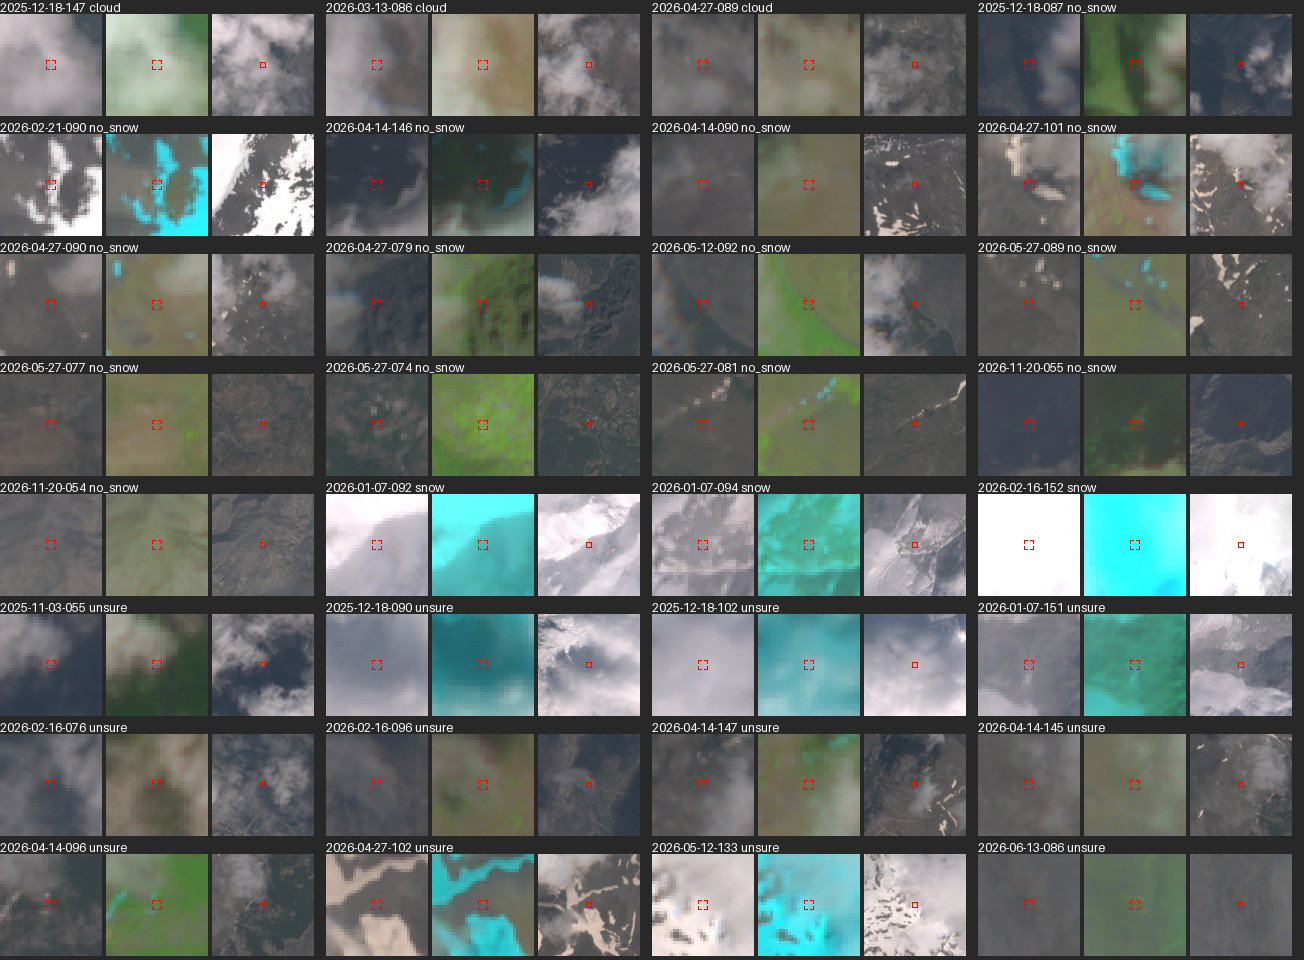
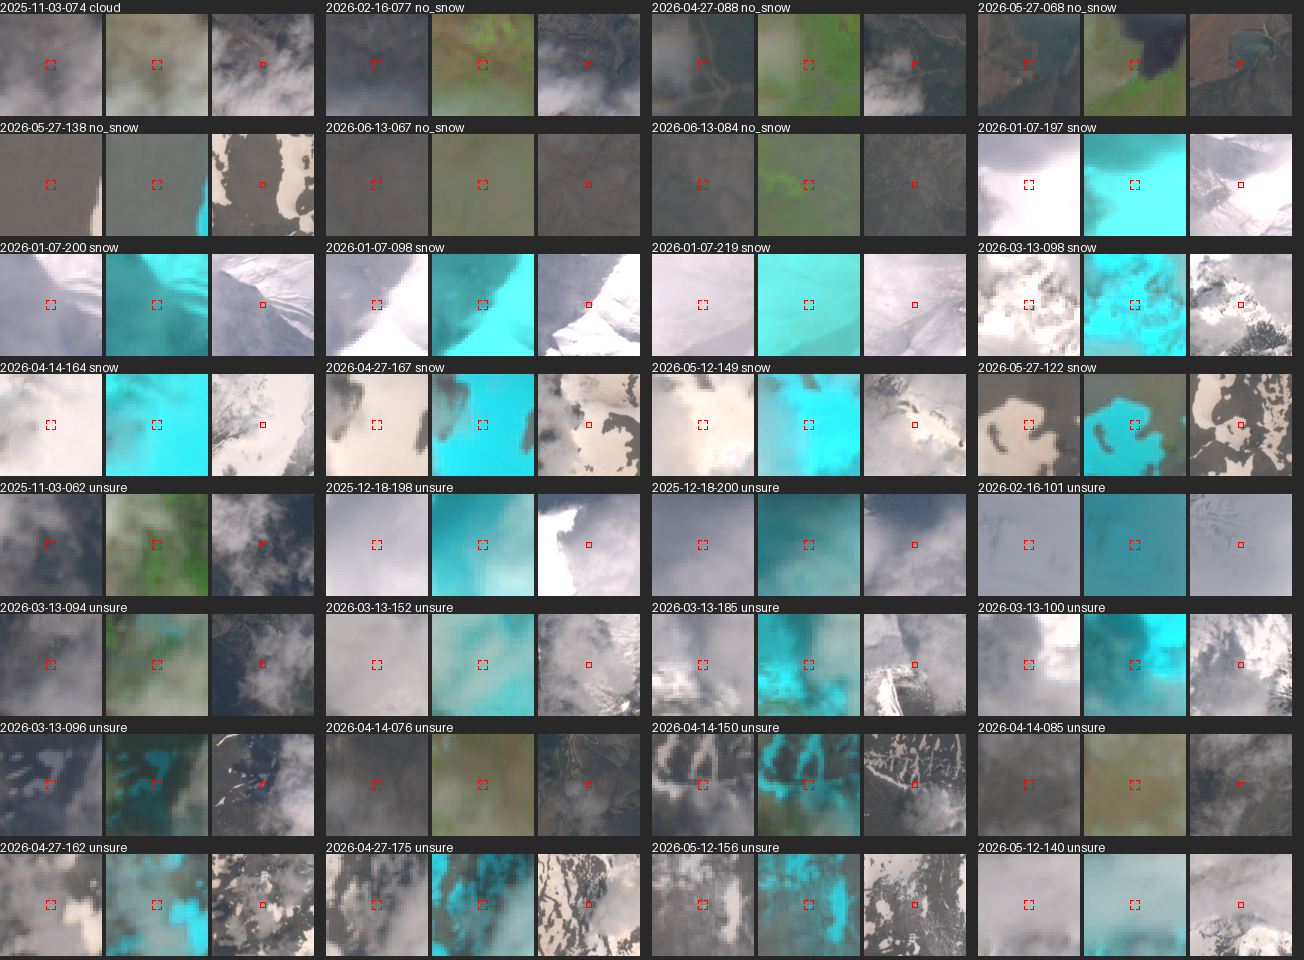
T1.0 evidence round 3: draws 3 and 4 pages, prevalence table, counts and montages of the re-frozen sample

diff --git a/t10/counts.md b/t10/counts.md
@@ -1,4 +1,4 @@
-Draw 1, by stratum
+Draw 1, by drawn stratum
 
 | stratum | snow | no_snow | cloud | unsure | total | scored |
 |---|---|---|---|---|---|---|
@@ -8,7 +8,7 @@ Draw 1, by stratum
 | cloud_edge | 24 | 139 | 26 | 140 | 329 | 189 |
 | open_terrain | 84 | 245 | 1 | 30 | 360 | 330 |
 
-Draw 2, by stratum
+Draw 2, by drawn stratum
 
 | stratum | snow | no_snow | cloud | unsure | total | scored |
 |---|---|---|---|---|---|---|
@@ -18,34 +18,57 @@ Draw 2, by stratum
 | cloud_edge | 20 | 24 | 4 | 39 | 87 | 48 |
 | open_terrain | 26 | 6 | 0 | 8 | 40 | 32 |
 
-Both draws, by stratum
+Draw 3, by drawn stratum
+
+| stratum | snow | no_snow | cloud | unsure | total | scored |
+|---|---|---|---|---|---|---|
+| forest | 83 | 11 | 1 | 78 | 173 | 95 |
+| cloud_edge | 53 | 2 | 5 | 77 | 137 | 60 |
+
+Draw 4, by drawn stratum
+
+| stratum | snow | no_snow | cloud | unsure | total | scored |
+|---|---|---|---|---|---|---|
+| cloud_edge | 14 | 13 | 0 | 37 | 64 | 27 |
+
+All draws, by drawn stratum
 
 | stratum | snow | no_snow | cloud | unsure | total | scored |
 |---|---|---|---|---|---|---|
 | snowline_band | 80 | 218 | 1 | 101 | 400 | 299 |
 | terrain_shadow | 95 | 221 | 0 | 56 | 372 | 316 |
-| forest | 43 | 323 | 4 | 107 | 477 | 370 |
-| cloud_edge | 44 | 163 | 30 | 179 | 416 | 237 |
+| forest | 126 | 334 | 5 | 185 | 650 | 465 |
+| cloud_edge | 111 | 178 | 35 | 293 | 617 | 324 |
 | open_terrain | 110 | 251 | 1 | 38 | 400 | 362 |
-| **all** | 372 | 1176 | 36 | 481 | 2065 | 1584 |
+| **all** | 522 | 1202 | 42 | 673 | 2439 | 1766 |
 
-Both draws, by date
+All draws, by stratum membership (in_strata, as Q1 scores them)
+
+| stratum | snow | no_snow | cloud | unsure | total | scored |
+|---|---|---|---|---|---|---|
+| snowline_band | 100 | 361 | 1 | 206 | 668 | 462 |
+| terrain_shadow | 158 | 243 | 1 | 92 | 494 | 402 |
+| forest | 141 | 582 | 6 | 249 | 978 | 729 |
+| cloud_edge | 121 | 205 | 37 | 326 | 689 | 363 |
+| open_terrain | 110 | 251 | 1 | 38 | 400 | 362 |
+
+All draws, by date
 
 | date | snow | no_snow | cloud | unsure | total | scored |
 |---|---|---|---|---|---|---|
 | 2025-11-03 | 0 | 65 | 18 | 17 | 100 | 83 |
 | 2025-11-28 | 25 | 81 | 0 | 19 | 125 | 106 |
-| 2025-12-18 | 47 | 55 | 4 | 54 | 160 | 106 |
-| 2026-01-07 | 63 | 55 | 0 | 41 | 159 | 118 |
-| 2026-01-12 | 48 | 53 | 0 | 19 | 120 | 101 |
-| 2026-02-16 | 45 | 56 | 2 | 54 | 157 | 103 |
-| 2026-02-21 | 23 | 91 | 0 | 21 | 135 | 114 |
-| 2026-03-13 | 26 | 77 | 1 | 53 | 157 | 104 |
+| 2025-12-18 | 69 | 55 | 5 | 96 | 225 | 129 |
+| 2026-01-07 | 107 | 60 | 0 | 56 | 223 | 167 |
+| 2026-01-12 | 67 | 55 | 0 | 31 | 153 | 122 |
+| 2026-02-16 | 72 | 57 | 4 | 87 | 220 | 133 |
+| 2026-02-21 | 28 | 94 | 0 | 29 | 151 | 122 |
+| 2026-03-13 | 42 | 77 | 2 | 89 | 210 | 121 |
 | 2026-03-25 | 25 | 85 | 0 | 28 | 138 | 110 |
-| 2026-04-14 | 22 | 91 | 2 | 41 | 156 | 115 |
-| 2026-04-27 | 14 | 90 | 4 | 46 | 154 | 108 |
-| 2026-05-12 | 15 | 95 | 2 | 28 | 140 | 112 |
-| 2026-05-27 | 15 | 100 | 0 | 16 | 131 | 115 |
+| 2026-04-14 | 27 | 91 | 2 | 48 | 168 | 120 |
+| 2026-04-27 | 21 | 94 | 5 | 64 | 184 | 120 |
+| 2026-05-12 | 20 | 98 | 3 | 49 | 170 | 121 |
+| 2026-05-27 | 15 | 108 | 0 | 16 | 139 | 123 |
 | 2026-06-13 | 4 | 103 | 2 | 25 | 134 | 109 |
 | 2026-11-20 | 0 | 79 | 1 | 19 | 99 | 80 |
 

diff --git a/t10/README.md b/t10/README.md
@@ -2,6 +2,8 @@
 
 - `counts.md`: labels per stratum (per draw and together) and per date; `scored` excludes unsure.
 - `stratum_*.png`: chip montage per stratum (32 random points each, seed 1010, caption = id and label). Each point: true colour 340 m (x3), SWIR false colour B11/B8/B4 340 m (x3), true colour 1 km. The labelled 20 m pixel is inside the red marks.
+- `pages_draw3/`, `pages_draw4/`: labelling pages of draws 3 (310 points, 14 pages) and 4 (64 points, 8 pages), same layout and blinding, with ids and raw labels.
+- `prevalence.md`: snow share per stratum, unweighted per draw and pooled vs design-weighted (output of `python -m qa.reference.score --prevalence`).
 - `pages_draw2/`: the 13 labelling pages of the second draw (315 points, same layout and blinding), with `page_ids.txt` and the raw labels in page order.
 - `pages/`: the 60 labelling pages of the first draw exactly as labelled (shuffled order per date, captions show only the point id, no label or stratum); `page_ids.txt` lists the ids on each page in reading order (left to right, top to bottom). Usable for a blind relabel without rebuilding the L1C mosaics.
 - `overviews/`: the 60 m L1C true-colour overviews with 500 m GLO-30 contours used to read each date's snowline before any point was drawn.

diff --git a/t10/prevalence.md b/t10/prevalence.md
@@ -1,0 +1,8 @@
+| stratum | points | draw 1 unweighted | draw 2 unweighted | draw 3 unweighted | draw 4 unweighted | pooled unweighted | draw 1 weighted | pooled weighted |
+|---|---|---|---|---|---|---|---|---|
+| snowline_band | 462 | 21.9% | 20.6% |  |  | 21.6% | 21.4% | 21.7% |
+| terrain_shadow | 402 | 30.0% | 75.0% | 97.1% | 100.0% | 39.3% | 33.8% | 31.9% |
+| forest | 729 | 5.8% | 30.8% | 87.5% | 100.0% | 19.3% | 1.4% | 1.2% |
+| cloud_edge | 363 | 13.4% | 41.1% | 87.3% | 51.8% | 33.3% | 10.8% | 10.2% |
+| open_terrain | 362 | 25.4% | 81.2% |  |  | 30.4% | 18.1% | 17.9% |
+| all | 1766 | 20.0% | 47.7% | 87.7% | 51.8% | 29.6% | 12.8% | 12.6% |
